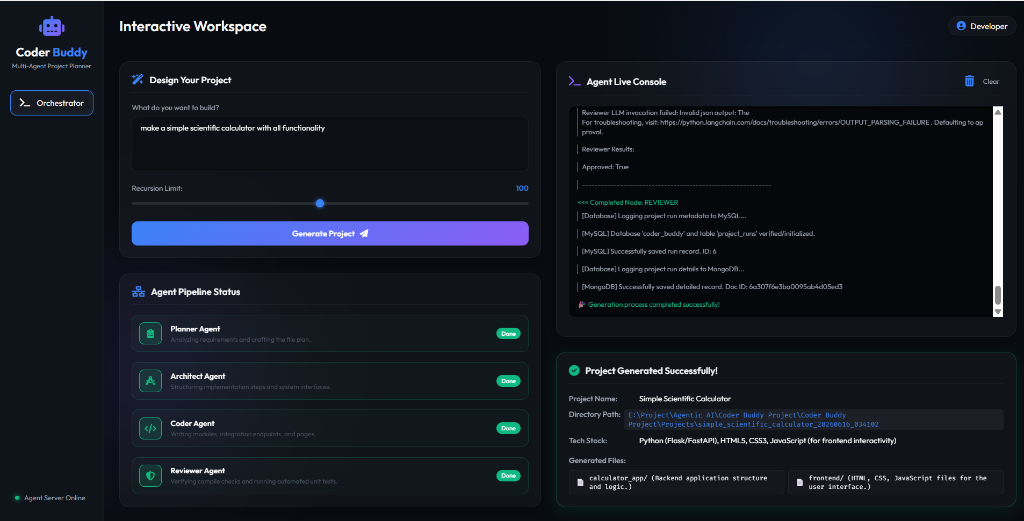
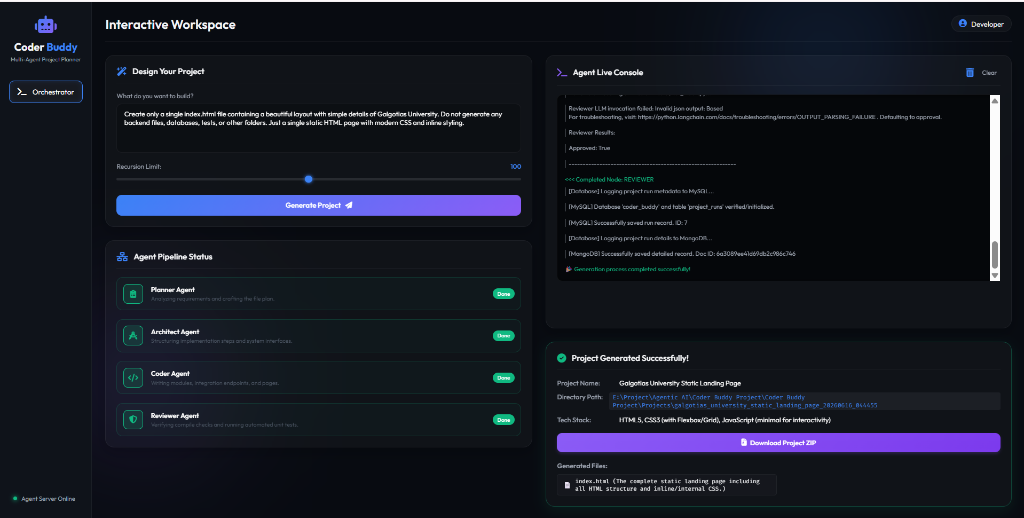
docs: update dashboard screenshot and README files to include project ZIP download feature

diff --git a/Coder Buddy Project/README.md b/Coder Buddy Project/README.md
@@ -37,7 +37,7 @@
 ## 🚀 Key Features
 
 *   **👥 Autonomous Developer Team:** Orchestrates a sequence of specialized AI agents working together like a real development squad.
-*   **🌐 Real-Time Web Console:** A visual dashboard with a prompt editor, status timelines, active node highlights, and live-scrolling backend logs powered by SSE (Server-Sent Events).
+*   **🌐 Real-Time Web Console:** A visual dashboard featuring a prompt editor, active status timelines, live-scrolling backend logs (SSE), and single-click project ZIP downloads.
 *   **🔒 Production User Auth Templates:** Injects secure JWT auth (FastAPI) and session-based auth (Flask) with fully responsive Glassmorphic layouts.
 *   **🧪 Self-Healing Test Loop:** The Reviewer agent automatically discovers and runs tests (`python -m unittest`). If tests fail, errors are routed back to the Coder for auto-correction.
 *   **🐳 Deployment Blueprint Generator:** Creates production-ready `Dockerfile`, `docker-compose.yml`, and hosting configurations (`render.yaml`, `vercel.json`) customized for every generated app.
@@ -80,6 +80,8 @@ flowchart TD
 ## 💻 Interactive Web Dashboard UI
 
 Below is a preview of the Coder Buddy Interactive Web UI dashboard, accessible at `http://localhost:8000`:
+
+*   **💻 Interactive Web Dashboard:** Real-time event logging, status timeline tracker, live-scrolling terminal outputs, and single-click project ZIP downloads.
 
 ![Coder Buddy Web UI](resources/dashboard_screenshot.png)
 

diff --git a/README.md b/README.md
@@ -37,7 +37,7 @@
 ## 🚀 Key Features
 
 *   **👥 Autonomous Developer Team:** Orchestrates a sequence of specialized AI agents working together like a real development squad.
-*   **🌐 Real-Time Web Console:** A visual dashboard with a prompt editor, status timelines, active node highlights, and live-scrolling backend logs powered by SSE (Server-Sent Events).
+*   **🌐 Real-Time Web Console:** A visual dashboard featuring a prompt editor, active status timelines, live-scrolling backend logs (SSE), and single-click project ZIP downloads.
 *   **🔒 Production User Auth Templates:** Injects secure JWT auth (FastAPI) and session-based auth (Flask) with fully responsive Glassmorphic layouts.
 *   **🧪 Self-Healing Test Loop:** The Reviewer agent automatically discovers and runs tests (`python -m unittest`). If tests fail, errors are routed back to the Coder for auto-correction.
 *   **🐳 Deployment Blueprint Generator:** Creates production-ready `Dockerfile`, `docker-compose.yml`, and hosting configurations (`render.yaml`, `vercel.json`) customized for every generated app.
@@ -80,6 +80,8 @@ flowchart TD
 ## 💻 Interactive Web Dashboard UI
 
 Below is a preview of the Coder Buddy Interactive Web UI dashboard, accessible at `http://localhost:8000`:
+
+*   **💻 Interactive Web Dashboard:** Real-time event logging, status timeline tracker, live-scrolling terminal outputs, and single-click project ZIP downloads.
 
 ![Coder Buddy Web UI](Coder%20Buddy%20Project/resources/dashboard_screenshot.png)
 